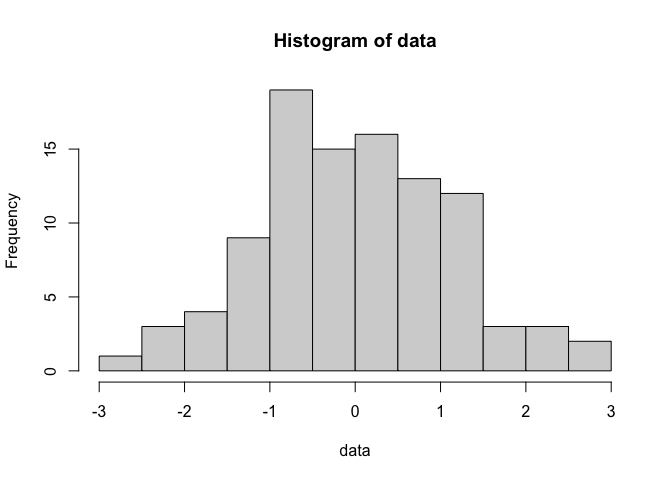
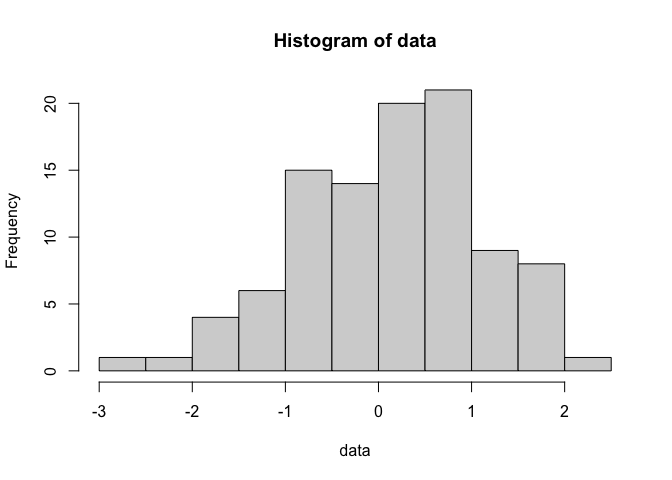
tutorials-lida: README

diff --git a/tutorials/lida-rr/README.md b/tutorials/lida-rr/README.md
@@ -1,7 +1,7 @@
 Code Sharing and Reproducible Research
 ================
 L Hama
-2020-09-25
+2020-09-26
 
   - [Code sharing for
     reproducibility](#code-sharing-for-reproducibility)
@@ -38,9 +38,14 @@ name for tracking source code versioning and also to collaborate
 remotely. Git is just one of few but perhaps the best. One of the two
 major contributions from Linus Torvalds.
 
-There is not as far as I know a convention or established method.
-www.sourceforge.net to dump source code or in the case of theses, maybe
-submit zip files.
+Git is a great tool if not the standard tool for sharing code. However,
+as far as I know, there is not a convention or established method for
+formatting or structuring our research outputs. Whilst writing this I
+came across [this
+effort](http://drivendata.github.io/cookiecutter-data-science/) and I
+think they know what I am talking about. Before code sharing platforms I
+think people may have used www.sourceforge.net to dump source code or in
+the case of theses, maybe submit zip files.
 
 ### Environment based
 
@@ -75,8 +80,8 @@ data <- rnorm(100)
 summary(data)
 ```
 
-    ##     Min.  1st Qu.   Median     Mean  3rd Qu.     Max. 
-    ## -2.52203 -0.67266 -0.02564  0.02615  0.73887  2.58667
+    ##    Min. 1st Qu.  Median    Mean 3rd Qu.    Max. 
+    ## -2.7205 -0.5416  0.2695  0.1690  0.8481  2.4289
 
 ``` r
 hist(data)
